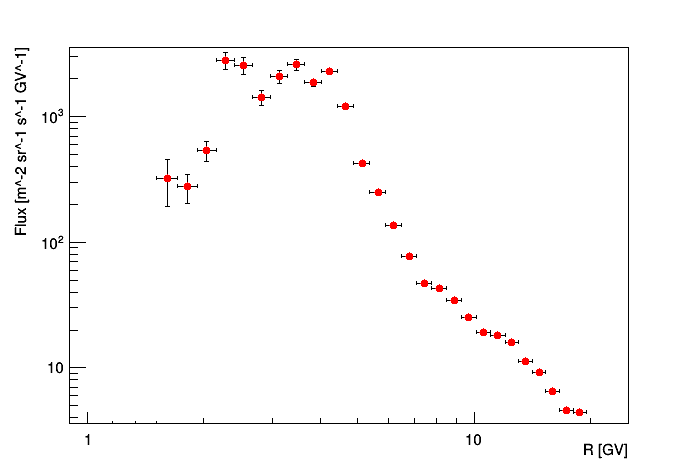
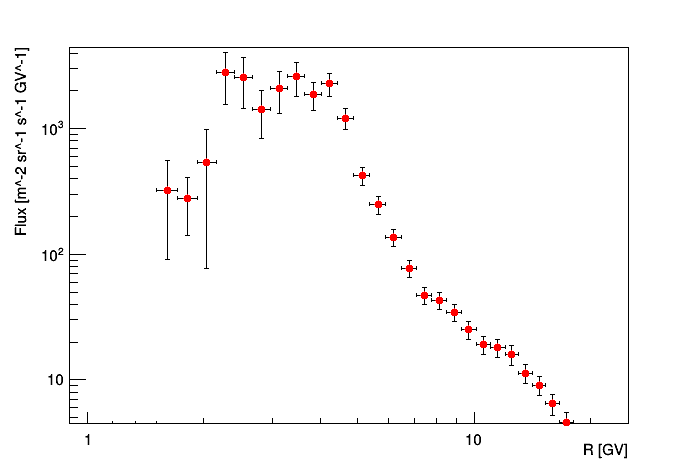
update 14-12-20

diff --git a/ProtonAnalysis.C b/ProtonAnalysis.C
@@ -79,7 +79,7 @@ class Anaaqra {
     // Acceptance()
     double Accept[32];
     // CutEff()
-    double CE_me[32]; double CE_mc_err[32];
+    double CE_mc[32]; double CE_mc_err[32];
     double CE_data[32]; double CE_data_err[32];
     // TrigEff()
     double TE_mc[32]; double TE_mc_err[32];
@@ -805,12 +805,12 @@ void Anaaqra::CutEff() {
 
   // TGraph
   for (int i=0; i<Bin_num; i++) {
-    CE_me[i] = CutEff_MC->GetBinContent(i+1);
+    CE_mc[i] = CutEff_MC->GetBinContent(i+1);
     CE_data[i] = CutEff_data->GetBinContent(i+1);
-    CE_mc_err[i] *= CE_me[i];
+    CE_mc_err[i] *= CE_mc[i];
     CE_data_err[i] *= CE_data[i];
   }
-  TGraphErrors* ce_mc_graph = new TGraphErrors(32, Bin_mid, CE_me, Bin_err, CE_mc_err);
+  TGraphErrors* ce_mc_graph = new TGraphErrors(32, Bin_mid, CE_mc, Bin_err, CE_mc_err);
   TGraphErrors* ce_data_graph = new TGraphErrors(32, Bin_mid, CE_data, Bin_err, CE_data_err);
   // Canvas
   TCanvas* c_CutEff = new TCanvas("c_CutEff", "Selection Efficiency per Rigitidy Bin");
@@ -1013,7 +1013,7 @@ void Anaaqra::ProtonFlux() {
                              );
       PFlux_err[i] = FluxHist->GetBinContent(i+1) * TMath::Sqrt(1/Events_cut->GetBinContent(i+1)
                      + pow(TE_mc_err[i]/TE_mc[i], 2) + pow(TE_data_err[i]/TE_data[i], 2)
-                     + pow(CE_mc_err[i]/CE_mc[i], 2) + pow(CE_data_err[i]/CE_data[i], 2);
+                     + pow(CE_mc_err[i]/CE_mc[i], 2) + pow(CE_data_err[i]/CE_data[i], 2));
     }
   }
 
